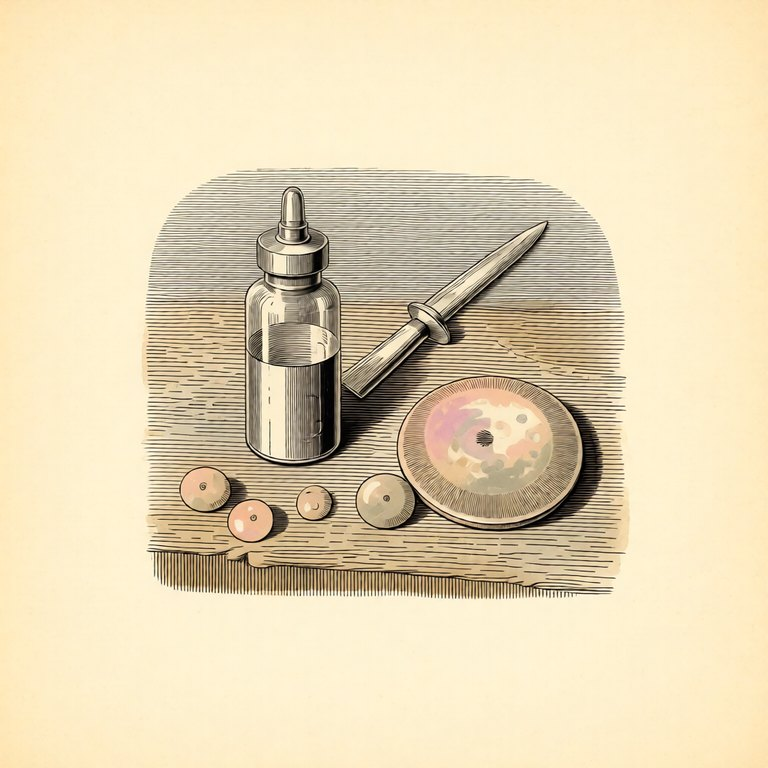
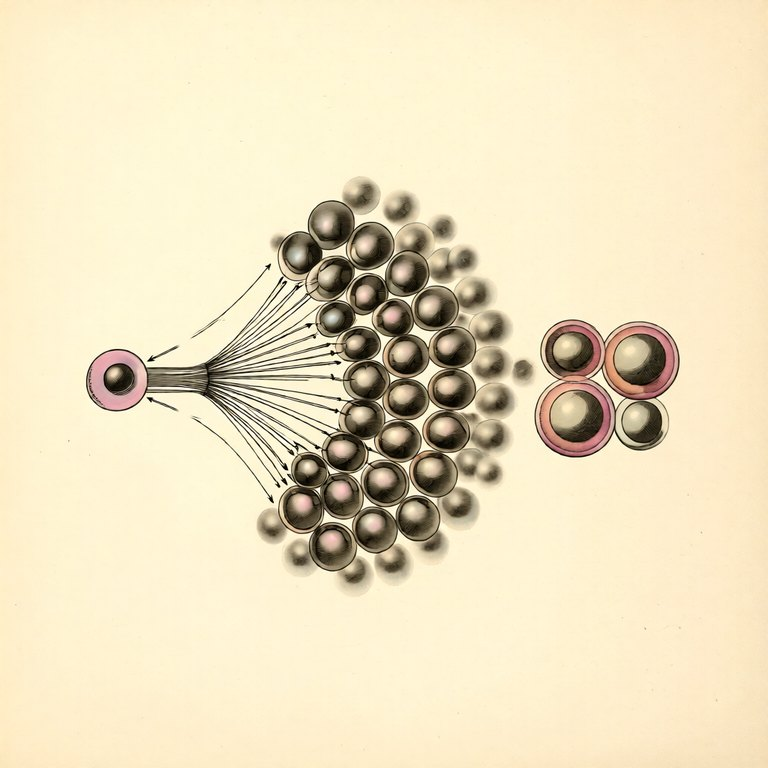
Immunology staged art: memory picture redrawn as clonal expansion; antibody, Peyer's patch and gut wall retries failed
Second short Runpod session (RTX PRO 6000, 3 min 39 s): 16 stills, 4 seeds each.

Claude-Session: https://claude.ai/code/session_01LUUiQnnSAtmy7H6gQGkFUy

diff --git a/tools/art/immuno/README.md b/tools/art/immuno/README.md
@@ -8,15 +8,15 @@ Artwork crops its picture into `img/cards/<slug>.jpg` and `decks/<slug>/cover.we
 
 | Primer | File | Shows | Scientist 2 check (16 Nov 2026) |
 |---|---|---|---|
-| 2 Antigen receptors | 02-receptors.jpg | one Y-shaped antibody drawn as globular domains (heavy and light chains not distinguished) | **Do not use for primer 2**: the arms carry unequal domain counts and the stem four domains; redraw symmetric (each Fab arm identical) or use only as decoration |
+| 2 Antigen receptors | 02-receptors.jpg | one Y-shaped antibody drawn as globular domains (heavy and light chains not distinguished) | **Decoration only, not for primer 2's structure plates**: domain counts are wrong (a 16 Nov retry drew six per arm and six in the stem; IgG has four and four). Primer 2 should teach structure with a drawn diagram |
 | 3 Antigen presentation | 03-presentation.jpg | antigen-presenting cell with peptide-holding cups, a lymphocyte touching it | OK |
 | 4 Development and tolerance | 04-development.jpg | thymus lobule: dark cortex, pale medulla with whorled (Hassall's) corpuscles | OK |
 | 5 T helper subsets | 05-th-subsets.jpg | one lymphocyte surrounded by four differently tinted lymphocytes | OK |
 | 6 Germinal centre | 06-germinal-centre.jpg | follicle in section: pale germinal centre with a darker crescent mantle | OK; shows mantle vs germinal centre, not the dark/light zones |
-| 8 Memory and vaccines | 08-memory-vaccines.jpg | vaccine vial and lancet with lymphocytes | **Unreviewed**: rebuild around memory and recall rather than equipment, then re-check |
-| 9 How IgA is made | 09-iga-production.jpg | gut wall with a dome-shaped lymphoid follicle (Peyer's patch) | **Fix before use**: the dome needs follicle-associated epithelium (flatter, M cells, no goblet cells, little mucus) |
+| 8 Memory and vaccines | 08-memory-vaccines.jpg | clonal expansion: one lymphocyte fans out into many, most fade, a few larger memory cells remain (redrawn 16 Nov, no equipment) | **Awaiting Scientist 2** |
+| 9 How IgA is made | 09-iga-production.jpg | gut wall with a dome-shaped lymphoid follicle (Peyer's patch) | **Fix before use**: the dome needs follicle-associated epithelium (flatter, M cells, no goblet cells, little mucus). A 16 Nov retry (4 seeds) could not draw it; use a drawn plate |
 | 10 What IgA does | 10-iga-function.jpg | epithelium under a mucus layer holding clumped bacteria | OK (single mucus layer; colon has two) |
-| 12 Gut immunity | 12-gut-immunity.jpg | gut wall section with villi | **Fix before use**: layer order unclear; must read lumen → mucus → epithelium with villi into the lumen → lamina propria → muscle |
+| 12 Gut immunity | 12-gut-immunity.jpg | gut wall section with villi | **Fix before use**: layer order unclear; must read lumen → mucus → epithelium with villi into the lumen → lamina propria → muscle. A 16 Nov retry (4 seeds) still failed; use a drawn plate |
 | 13 Oral vaccines | 13-oral-vaccines.jpg | bottle, spoon, sugar cube with a drop, a leafy sprig | OK |
 | 14 Paradigms | 14-paradigms.jpg | branching tree ending in lymphocyte-like dots | OK |
 
